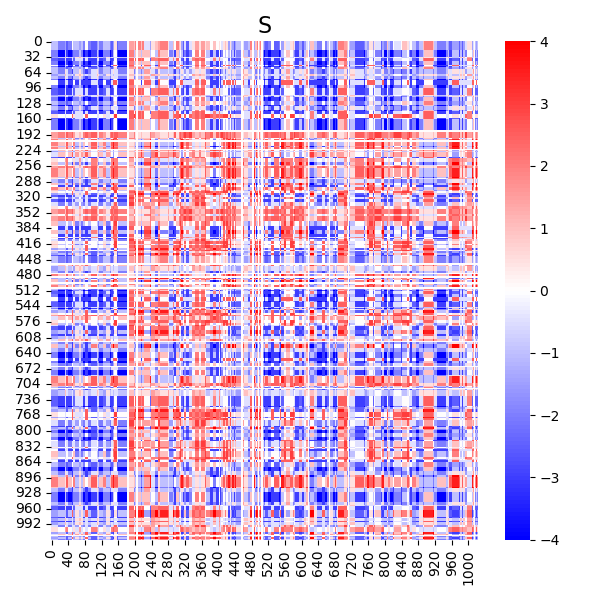
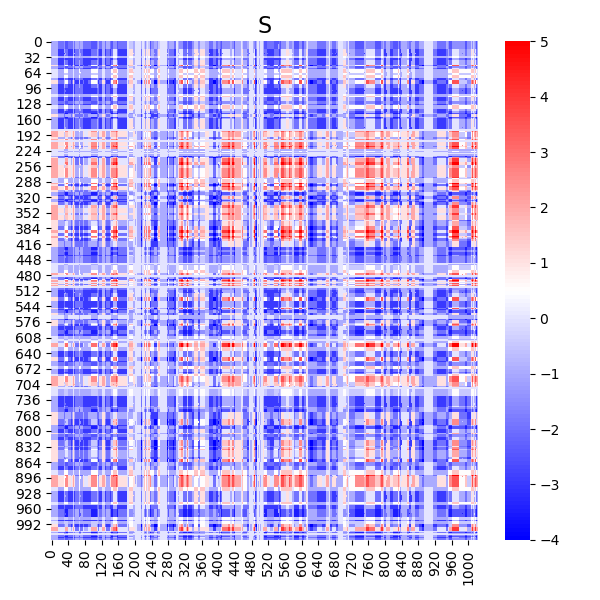
update

diff --git a/data_summary_plots.py b/data_summary_plots.py
@@ -376,7 +376,7 @@ def basic_plots(dataFolder, plot_y = True, plot_s = True, chi = None):
 
 
 if __name__ == '__main__':
-    dataset = 'dataset_08_29_21'
+    dataset = 'dataset_08_26_21'
     sample = 40
     basic_plots(dataset, plot_y = False)
     # plot_genomic_distance_statistics(dataset)
